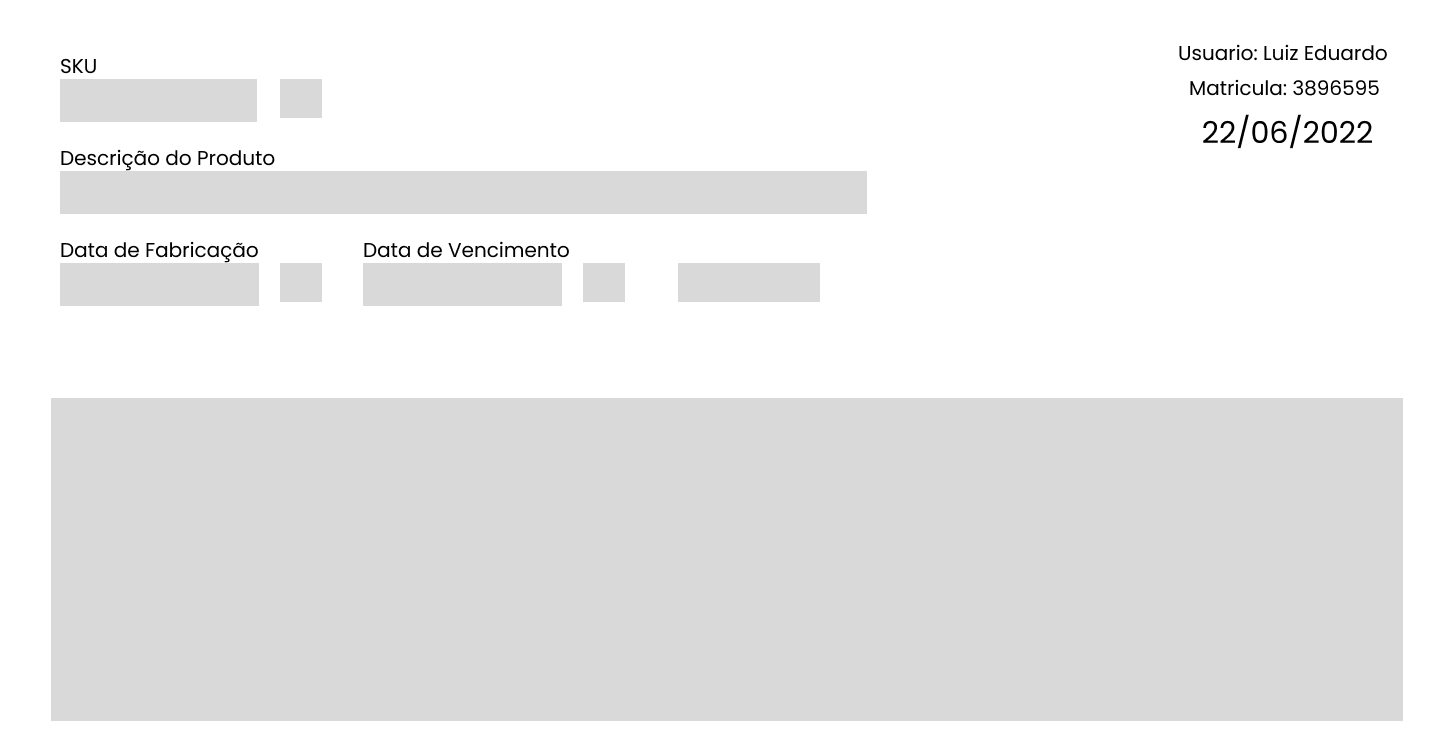
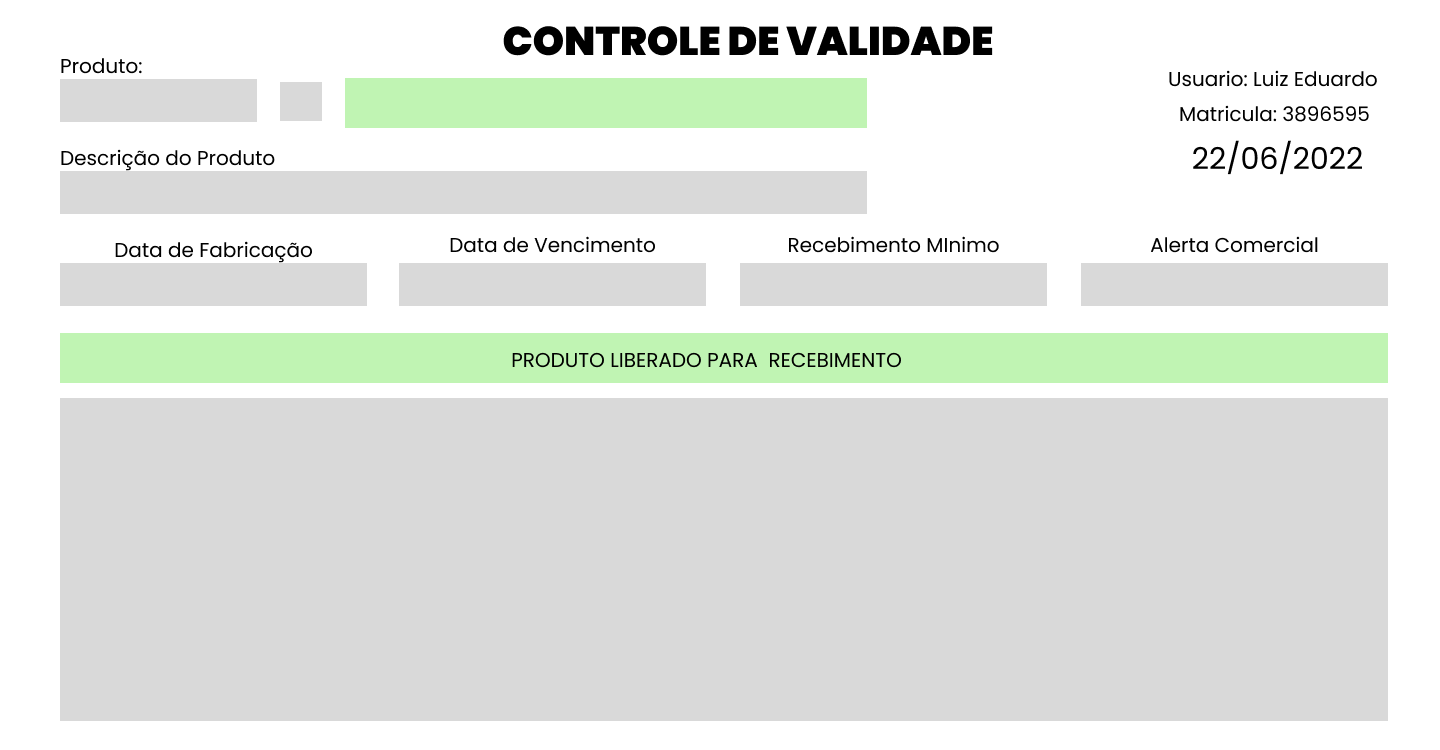
Adicionando botões e labels

diff --git a/controle_de_validade/controle_de_validade/tela_principal.py b/controle_de_validade/controle_de_validade/tela_principal.py
@@ -1,5 +1,7 @@
 import os
-from tkinter import * 
+from tkinter import *
+from tkinter import font
+from turtle import width 
 from tkcalendar import DateEntry
 
 
@@ -29,16 +31,44 @@ class TelaPrincipal:
         return param
 
     def tela_inicial(self):
-        self.caminho = os.getcwd()
-        print(self.caminho, '************')
         self.root.title('Controle de Validade')
         p = self.centralizacao_tela(1440,750,self.root)
         self.root.geometry("%dx%d+%d+%d" % (p[0],p[1],p[2],p[3]))
         self.imagem_tela = PhotoImage(file=r'..\image\tela1.png')
+        self.imagem_pesquisa = PhotoImage(file=r'..\image\pesquisa.png',width=43,height=43)
+       
         lb_image = Label(self.root,image=self.imagem_tela)
         lb_image.place(x=0, y=0)
-        calendario = DateEntry(self.root,selectmode='day')
-        # calendario.place(x=400, y=300)
+
+        dta_fab = DateEntry(self.root,
+                            selectmode='day',
+                            font=('Poppins',20), 
+                            justify='center')
+        dta_venc = DateEntry(self.root,
+                            selectmode='day',
+                            font=('Poppins',20), 
+                            justify='center')
+
+        dta_fab.place(x=60, y=263, width=307, height=43)
+        dta_venc.place(x=399, y=263, width=307, height=43)
+
+        #botões
+        bt_receber = Button(self.root,
+                            text='Aguardando analise...',
+                            cursor='hand2')
+        bt_pesquisa_sku = Button(self.root,
+                            text='',
+                            cursor='hand2',
+                            image=self.imagem_pesquisa)
+
+
+        bt_receber.place(x=60, y=333,width=1328, height=50)
+        bt_pesquisa_sku.place(x=280, y=82,width=42, height=39)
+
+        txt_produto =Text(self.root,
+                            font=('Poppins', 20))
+
+        txt_produto.place(x=60, y=79,width=197,height=43)
 
 
 
